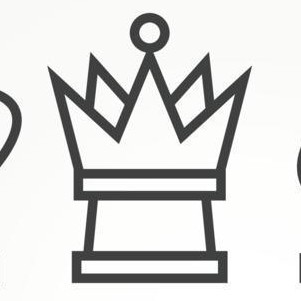
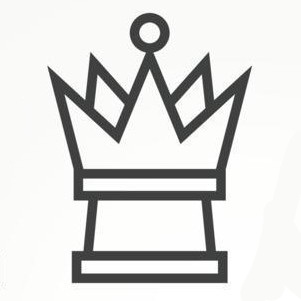
added piece images only white

Changed region(s): [[0.0, 0.299, 0.0897, 0.5681], [0.9867, 0.4784, 1.0, 0.6279], [0.9867, 0.8372, 1.0, 0.9568]]

diff --git a/src/main/java/all/Piece.java b/src/main/java/all/Piece.java
@@ -1,5 +1,10 @@
 package all;
 
+import java.awt.image.BufferedImage;
+import java.io.IOException;
+
+import javax.imageio.ImageIO;
+
 import all.Board.PColor;
 import all.Board.PType;
 
@@ -9,7 +14,7 @@ public class Piece {
     int col;
     PType type;
     PColor color;
-    // BufferedImage image;
+    BufferedImage image;
 
     public Piece(int row, int col, PType type, PColor color) {
         this.row = row;
@@ -17,13 +22,21 @@ public class Piece {
         this.type = type;
         this.color = color;
 
-        // try {
-        //     image = switch (type) {
-        //         default -> ImageIO.read(new File("/pawn_white.jpg"));
-        //     };
-        // } catch (IOException exception){
-        //     // handle
-        // }
+        try {
+            image = switch (type) {
+                case pawn -> ImageIO.read(Piece.class.getResourceAsStream("/pawn_white.jpg"));
+                case horse -> ImageIO.read(Piece.class.getResourceAsStream("/horse_white.jpg"));
+                case bishop -> ImageIO.read(Piece.class.getResourceAsStream("/bishop_white.jpg"));
+                case rook -> ImageIO.read(Piece.class.getResourceAsStream("/rook_white.jpg"));
+                case queen -> ImageIO.read(Piece.class.getResourceAsStream("/queen_white.jpg"));
+                case king -> ImageIO.read(Piece.class.getResourceAsStream("/king_white.jpg"));
+                default -> ImageIO.read(Piece.class.getResourceAsStream("/pawn_white.jpg"));
+            };
+        } catch (IOException exception){
+            // handle
+        }
+
+        //image = image.getScaledInstance(10, 10, Image.SCALE_DEFAULT);
     }
 
     private boolean validate_move(int row, int col) {

diff --git a/src/main/java/all/Board.java b/src/main/java/all/Board.java
@@ -42,14 +42,21 @@ public class Board {
 
         // draw horizontal lines
         for (int i=0; i<9; i++)
-            g2d.drawLine(tileSize, tileSize + i*tileSize, MainFrame.HEIGHT - tileSize, tileSize + i*tileSize);
+            g2d.drawLine(tileSize, (1 + i) * tileSize, MainFrame.HEIGHT - tileSize, (1 + i) * tileSize);
 
         // draw vertical lines
         for (int i=0; i<9; i++)
-            g2d.drawLine(tileSize + i*tileSize, tileSize, tileSize + i*tileSize, MainFrame.HEIGHT - tileSize);
+            g2d.drawLine((1 + i) * tileSize, tileSize, (1 + i) * tileSize, MainFrame.HEIGHT - tileSize);
 
-        // for (Piece piece : board) 
-        //     piece.drawPiece(g, tileSize);
+        // g2d.setColor(Color.blue);
+
+        for (Piece piece : board) {
+            int imageX = (int) ((1.05 + piece.col) * tileSize);
+            int imageY = (int) ((1.05 + piece.row) * tileSize);
+            int resizeX = (int) (0.9*tileSize);
+            int resizeY = (int) (0.9*tileSize);
+            g2d.drawImage(piece.image, imageX, imageY, resizeX, resizeY, null);
+        }
     }
 
     // spawns a piece
